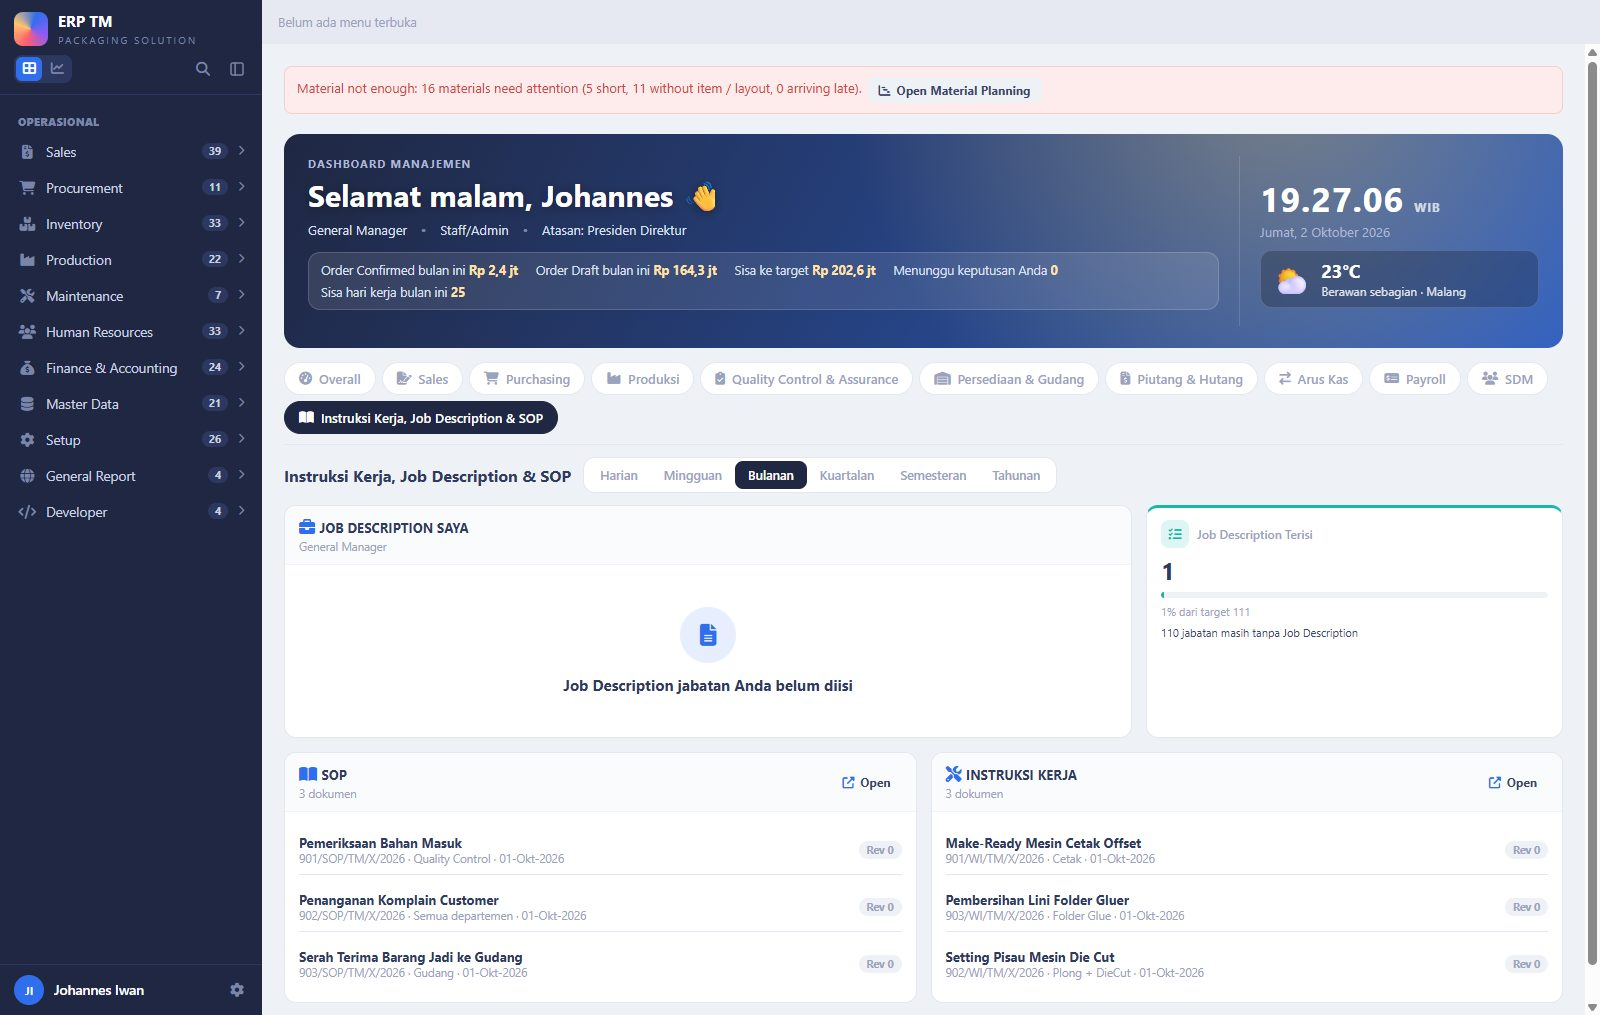
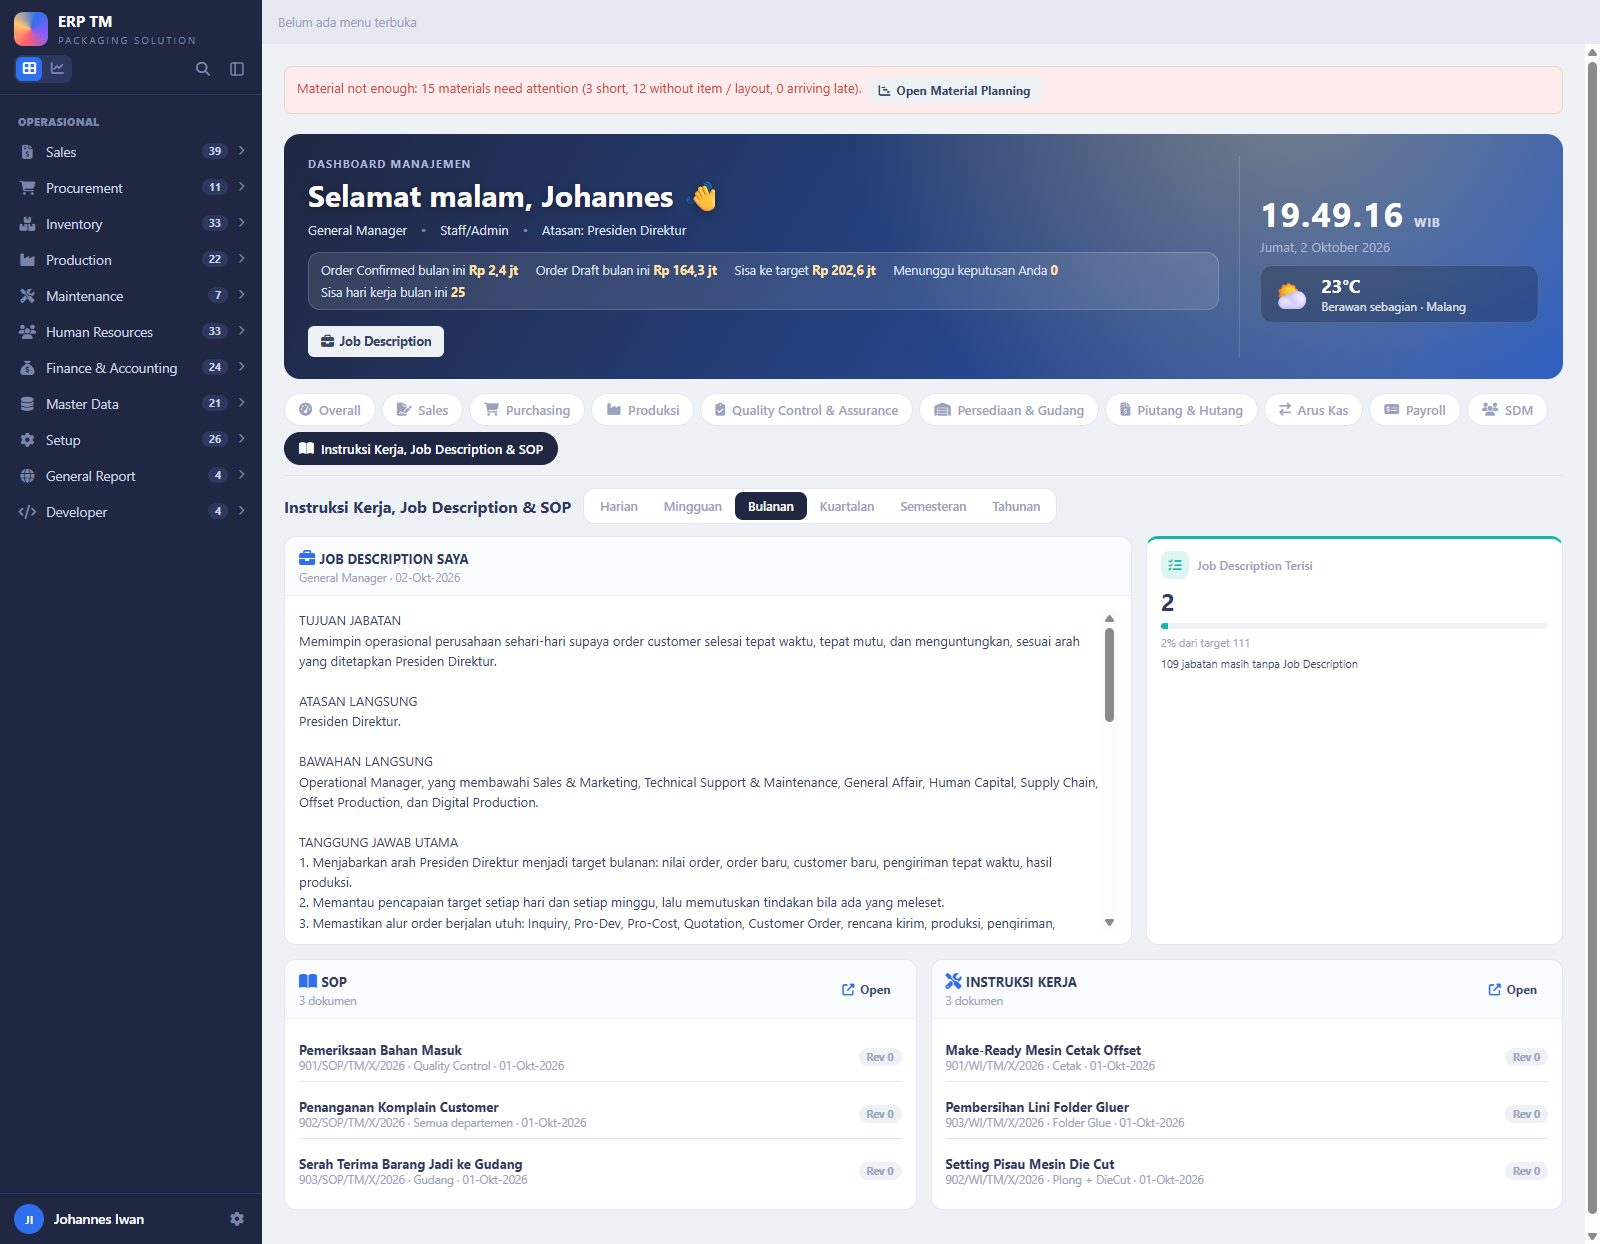
Job description of General Manager filled (draft from the leadership chart), shown by the My Job Description widget
Migration 000165 fills org_position.job_description for GENERALMANAGER only when it is still empty; ddt + tm2.

diff --git a/database/migrations/2026_10_02_000165_job_description_general_manager.php b/database/migrations/2026_10_02_000165_job_description_general_manager.php
@@ -1,0 +1,75 @@
+<?php
+
+use Illuminate\Database\Migrations\Migration;
+use Illuminate\Support\Facades\DB;
+
+// Job Description jabatan General Manager (user 2026-10-02, melihat widget "My Job Description" kosong: "build for me").
+// Disusun dari bagan pimpinan 2026-09-28 (atasan Presiden Direktur; bawahan langsung Operational Manager yang membawahi
+// Sales & Marketing, Technical Support & Maintenance, General Affair, Human Capital, Supply Chain, Offset Production,
+// Digital Production; Finance & Accounting dan Product Costing TIDAK di bawah General Manager) dan dari apa yang dipantau
+// jabatan ini di layar pembuka. Hanya mengisi bila masih kosong -- teks yang sudah ditulis HR tidak pernah ditimpa.
+return new class extends Migration
+{
+    private const CODE = 'GENERALMANAGER';
+
+    private const BY = 'claude (draft)';
+
+    private const TEXT = <<<'TXT'
+TUJUAN JABATAN
+Memimpin operasional perusahaan sehari-hari supaya order customer selesai tepat waktu, tepat mutu, dan menguntungkan, sesuai arah yang ditetapkan Presiden Direktur.
+
+ATASAN LANGSUNG
+Presiden Direktur.
+
+BAWAHAN LANGSUNG
+Operational Manager, yang membawahi Sales & Marketing, Technical Support & Maintenance, General Affair, Human Capital, Supply Chain, Offset Production, dan Digital Production.
+
+TANGGUNG JAWAB UTAMA
+1. Menjabarkan arah Presiden Direktur menjadi target bulanan: nilai order, order baru, customer baru, pengiriman tepat waktu, hasil produksi.
+2. Memantau pencapaian target setiap hari dan setiap minggu, lalu memutuskan tindakan bila ada yang meleset.
+3. Memastikan alur order berjalan utuh: Inquiry, Pro-Dev, Pro-Cost, Quotation, Customer Order, rencana kirim, produksi, pengiriman, penagihan.
+4. Mengawasi rencana dan hasil produksi: target vs hasil, beban kapasitas mesin, Work Order yang terlambat, downtime mesin.
+5. Mengawasi mutu: hasil QC, komplain dan retur customer, serta tindak lanjut review QA sampai komplain ditutup.
+6. Mengawasi ketersediaan bahan dan persediaan: kekurangan bahan, pembelian yang belum datang, stok yang tidak bergerak.
+7. Memutuskan prioritas ketika kapasitas, bahan, atau jadwal kirim berbenturan, termasuk permintaan percepatan.
+8. Memberi keputusan atas dokumen yang menunggu persetujuannya sesuai aturan approval yang berlaku.
+9. Membina Operational Manager dan para kepala departemen; menilai kinerja, kebutuhan orang, dan kebutuhan pelatihan.
+10. Memastikan SOP dan Work Instruction tersedia, dipahami, dan dijalankan; meminta pembaruan bila cara kerja berubah.
+11. Memastikan data di sistem ERP diisi lengkap dan tepat waktu oleh setiap bagian, karena laporan manajemen dibaca dari sana.
+12. Melaporkan kinerja operasional, masalah, dan usulan perbaikan kepada Presiden Direktur secara berkala.
+
+WEWENANG
+1. Menetapkan prioritas kerja dan jadwal lintas departemen di bawah Operational Manager.
+2. Menyetujui atau menolak dokumen sesuai batas kewenangan di aturan approval.
+3. Mengusulkan kebutuhan orang, mesin, dan investasi kepada Presiden Direktur.
+4. Meminta data dan penjelasan dari semua bagian operasional.
+
+DI LUAR TANGGUNG JAWAB JABATAN INI
+Finance & Accounting (di bawah Direktur Finance & Accounting) dan Product Costing (langsung ke Presiden Direktur). General Manager bekerja sama dengan keduanya, tetapi tidak memimpinnya.
+
+UKURAN KEBERHASILAN
+1. Nilai order dan jumlah order baru terhadap target.
+2. Pengiriman tepat waktu.
+3. Hasil produksi terhadap target dan pemakaian kapasitas mesin.
+4. Jumlah komplain customer dan lama penyelesaiannya.
+5. Work Order terlambat dan jam downtime mesin yang tidak terencana.
+6. Kelengkapan data dan dokumen kerja (SOP, Work Instruction, Job Description) di sistem.
+
+HUBUNGAN KERJA
+Ke dalam: Presiden Direktur, Direktur Finance & Accounting, Product Costing, Operational Manager, para kepala departemen.
+Ke luar: customer utama, supplier utama, dan pihak lain atas penugasan Presiden Direktur.
+TXT;
+
+    public function up(): void
+    {
+        DB::connection('tm2mst')->table('org_position')->where('position_code', self::CODE)
+            ->where(fn ($q) => $q->whereNull('job_description')->orWhereRaw("TRIM(job_description) = ''"))
+            ->update(['job_description' => self::TEXT, 'job_description_updated_by' => self::BY, 'job_description_updated_at' => now()]);
+    }
+
+    public function down(): void
+    {
+        DB::connection('tm2mst')->table('org_position')->where('position_code', self::CODE)->where('job_description_updated_by', self::BY)
+            ->update(['job_description' => null, 'job_description_updated_by' => null, 'job_description_updated_at' => null]);
+    }
+};

diff --git a/docs/md_for_systems/openingboard_review.md b/docs/md_for_systems/openingboard_review.md
@@ -236,7 +236,7 @@ Hak:
 | Capacity Load, Machine Load | 42 mesin punya jam per shift | **"jam per shift belum diisi"** — 45 mesin proses di tm2 belum punya jam per shift dan shift per hari (data nyata, diisi di Master Mesin) |
 | Target vs Result | contoh: target 3.000, hasil 750 | target dari Work Order contoh; hasil 0 sampai produksi mencatat output |
 | SOP, Work Instructions | 3 + 3 dokumen contoh | kosong — belum ada dokumen yang didaftarkan |
-| My Job Description | "belum diisi" (1 dari 111 jabatan terisi) | sama |
+| My Job Description | **General Manager terisi** (draf 2026-10-02, 2 dari 111 jabatan terisi) | teksnya sudah ada di jabatan General Manager, tetapi widget menampilkan "akun belum terhubung ke jabatan" — akun johiwan belum ditautkan ke data pegawai di tm2 |
 | Open Complaints | 3 komplain contoh | kosong — belum ada komplain yang terbuka di tm2 |
 | Jabatan di salam | General Manager | kosong untuk akun johiwan (belum terhubung ke data pegawai di tm2) |
 
@@ -250,10 +250,12 @@ Hak:
    yang ditetapkan manajemen per bulan (seperti target penjualan), perlu satu kunci target baru di Setup → KPI Targets.
 3. **Work Instruction** sekarang berupa teks (seperti SOP). Belum ada: langkah bergambar, lampiran file, kaitan ke proses /
    mesin, tanda "sudah dibaca" per pegawai.
-4. **Jabatan lain** (bukan top management) belum punya layar pembuka baru.
-5. Widget dari referensi yang belum bisa dibuat karena datanya belum ada: estimasi vs biaya nyata per job, OEE dan scrap %,
+4. **Job Description General Manager** = draf yang saya susun dari bagan pimpinan; mohon dikoreksi di Human Resources → Master
+   Posisi. 109 jabatan lain masih kosong (diisi HR). **Akun johiwan di tm2** belum ditautkan ke pegawai — perlu izin Anda.
+5. **Jabatan lain** (bukan top management) belum punya layar pembuka baru.
+6. Widget dari referensi yang belum bisa dibuat karena datanya belum ada: estimasi vs biaya nyata per job, OEE dan scrap %,
    DSO / DPO, proyeksi arus kas, barang diterima belum ditagih — rinciannya di `openingboard_references.md`.
-6. **Layar HP:** papan satu kolom di layar sempit; laci menu untuk HP belum dipasang.
+7. **Layar HP:** papan satu kolom di layar sempit; laci menu untuk HP belum dipasang.
 
 ---
 

diff --git a/docs/LOG_JOB_DONE.md b/docs/LOG_JOB_DONE.md
@@ -32,6 +32,12 @@ result, capacity planning".
   `openingboard_references.md`, pedoman C.33, Help (panduan + SOP & Work Instruction), gambar `docs/mockups/opening_board_app/11`–`14`.
 - Belum: jam per shift 45 mesin di tm2 (data nyata, menunggu user), target produksi dari manajemen, WI bergambar / lampiran.
 - Baseline dummy 2026-10-02 19:33:33 sudah memuat kolom `doc_type` dan dokumen contoh (`ddt:baseline check` = tanpa perubahan).
+- **Job Description General Manager** (user, melihat widget kosong: "build for me"): migrasi `2026_10_02_000165` mengisi
+  `org_position.job_description` jabatan `GENERALMANAGER` di ddt + tm2, **hanya bila masih kosong** (teks HR tidak ditimpa),
+  `job_description_updated_by = 'claude (draft)'`. Isi disusun dari bagan pimpinan 2026-09-28 (atasan Presiden Direktur, bawahan
+  Operational Manager; Finance & Accounting dan Product Costing di luar jabatan ini) — **draf, menunggu koreksi user**; diubah di
+  Human Resources → Master Posisi. Baseline dummy disimpan ulang 19:49:49. Di tm2 widget masih "akun belum terhubung ke jabatan"
+  karena `sec_user` johiwan belum ditautkan ke pegawai di database live (menunggu izin user).
 
 ## 2026-10-02 -- Reset data dummy: penjaga drift struktur (baseline vs ddt* sekarang)
 
